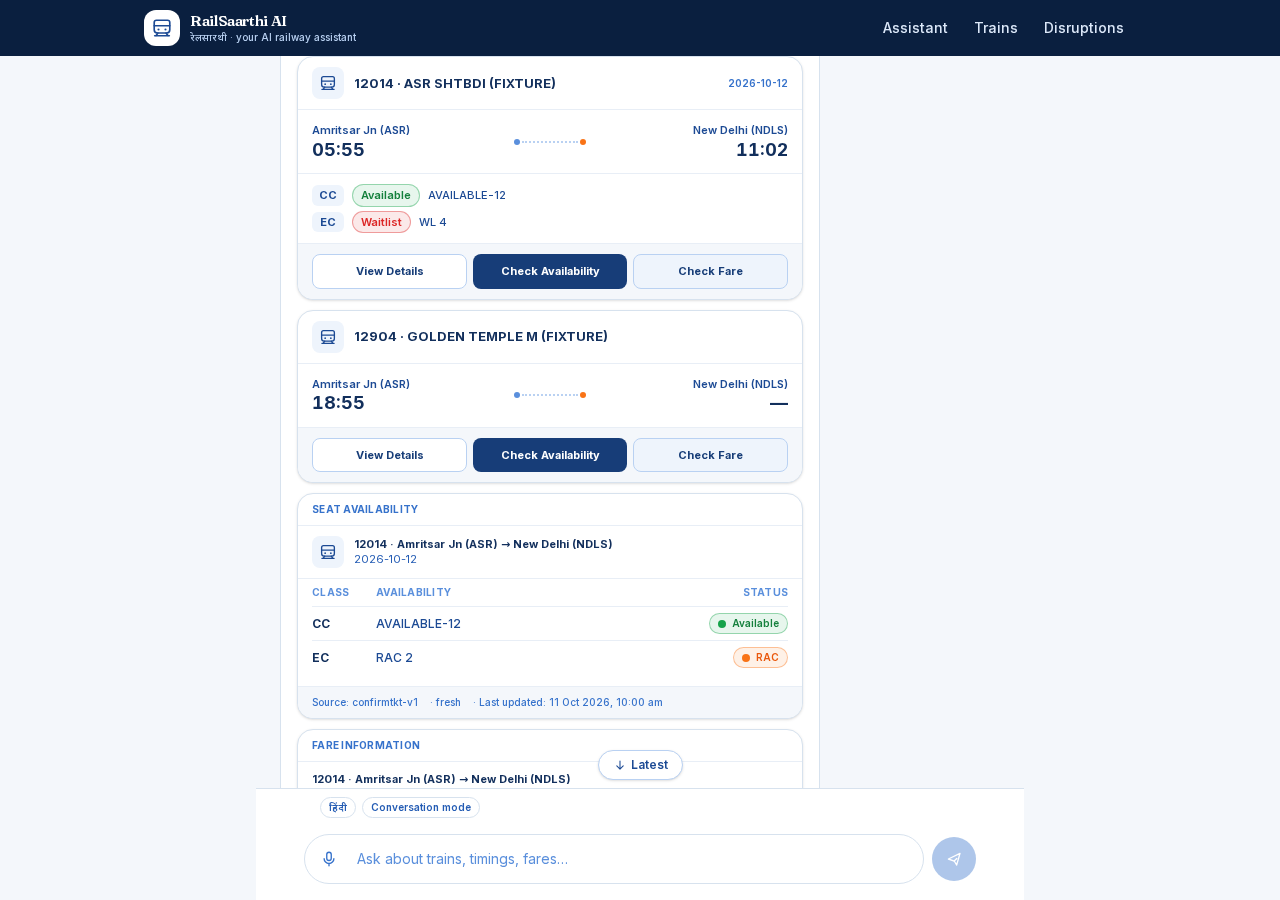
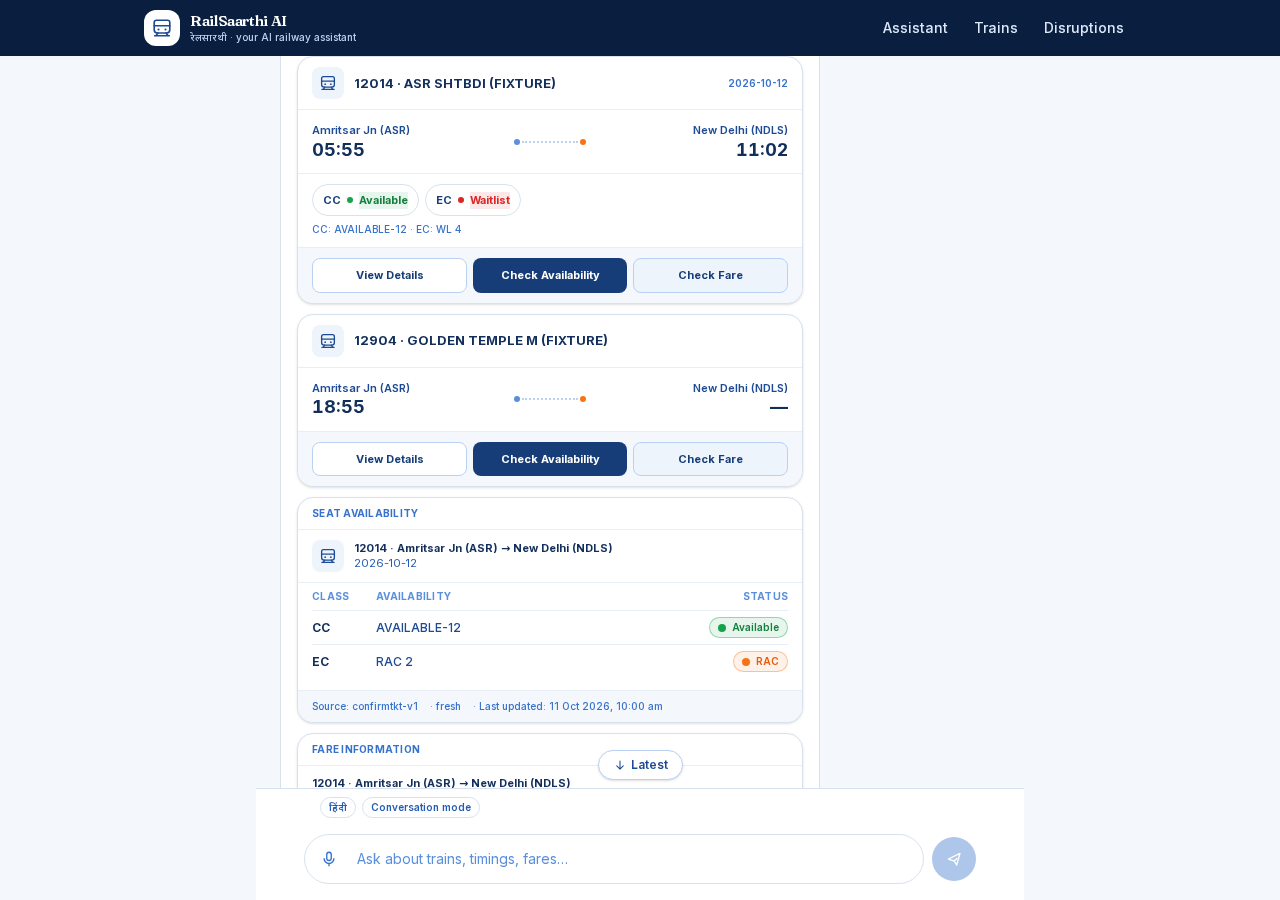
Premium chat UX: interactive class chips, availability chips, voice parity
PART 7 class chips: DEFAULT/SELECTED/LOADING/DISABLED states from the
authoritative result only (classes ∪ returned availability). Tap selects the
class for follow-ups and — when that class has no returned availability —
fires a REAL enquiry through the existing chat turn; loading tracks the real
turn (busy), never a fake timer. Selected = navy fill + aria-pressed + ✓.
PART 8 availability chips: [CC · Available] style with dot+label, exact
provider values kept attached as 'train+date+class: raw' line. Never a seat
count; unknown/error never styled as available.
PART 16 voice parity: speak/replay now use a concise grounded summary built
only from verified cards/blocks (e.g. '12014 mein CC Available, EC Waitlist'),
not the full card dump; replay never triggers a new enquiry.
Cards: one primary action (Check Availability, navy), secondary outline;
busy-prop disables chips/actions during turns (duplicate protection).
e2e: class-chip select+enquiry test; delayed-SSE loading-state test.
Playwright 56/56; tsc/lint/build PASS. Backend/orchestrator/providers
untouched. No push/deploy (not requested this milestone).

diff --git a/src/components/TrainResultCards.tsx b/src/components/TrainResultCards.tsx
@@ -18,45 +18,104 @@ export interface TrainCard {
   availability?: { classCode: string; status: string; asOf?: string | null }[];
 }
 
+function Dot({ kind }: { kind: ReturnType<typeof availabilityKind> }) {
+  const color =
+    kind === "available"
+      ? "bg-signal-500"
+      : kind === "rac"
+        ? "bg-saffron-500"
+        : kind === "unknown"
+          ? "bg-navy-300"
+          : "bg-alert-500";
+  return <span aria-hidden className={`h-1.5 w-1.5 shrink-0 rounded-full ${color}`} />;
+}
+
 /** Deterministic rendering of structured tool data (UI display only —
  *  no interpretation). Data always originates from provider results.
  *  Fields the provider did not return are labelled "—", never invented.
  *
  *  Button-behavior contract:
- *  - View Details      → real /trains/:id route; opens the details view, no new search.
- *  - Check Availability→ one follow-up through the EXISTING chat turn (LLM +
- *    ToolRuntime decide); visible loading state, duplicate-click protected.
- *  - Check Fare        → same contract, fare question for train + route.
+ *  - Class chips  → DEFAULT / SELECTED / LOADING / DISABLED. Tapping a class
+ *    selects it for follow-up enquiries AND (when that class has no returned
+ *    availability) fires a real availability enquiry through the existing
+ *    chat turn — loading tracks the actual turn (busy prop), never a fake
+ *    timer. Selection is honoured by Check Fare / Check Availability.
+ *  - View Details → real /trains/:id route; opens details, no new search,
+ *    no accidental selection; conversation is preserved.
+ *  - Check Availability (primary) / Check Fare (secondary) → one follow-up
+ *    through the EXISTING chat turn; visible loading + duplicate protection.
  *  No success is simulated — the real assistant answer (or error) follows. */
 export function TrainResultCards({
   cards,
   onAsk,
+  busy = false,
 }: {
   cards: TrainCard[];
   /** Sends a natural-language follow-up through the existing chat turn. */
   onAsk?: (question: string) => void;
+  /** True while a chat turn is in flight — drives chip/button loading states. */
+  busy?: boolean;
 }) {
   if (cards.length === 0) return null;
   return (
     <ul className="mt-3 space-y-2.5" data-testid="train-cards">
       {cards.map((c) => (
-        <TrainCardView key={`${c.trainNumber}-${c.departure}`} c={c} onAsk={onAsk} />
+        <TrainCardView key={`${c.trainNumber}-${c.departure}`} c={c} onAsk={onAsk} busy={busy} />
       ))}
     </ul>
   );
 }
 
-function TrainCardView({ c, onAsk }: { c: TrainCard; onAsk?: (q: string) => void }) {
-  const [pending, setPending] = useState<null | "availability" | "fare">(null);
+function TrainCardView({
+  c,
+  onAsk,
+  busy,
+}: {
+  c: TrainCard;
+  onAsk?: (q: string) => void;
+  busy: boolean;
+}) {
+  const [pendingActionRaw, setPendingAction] = useState<null | "availability" | "fare">(null);
+  const [selectedClass, setSelectedClass] = useState<string | null>(null);
+  const [pendingClassRaw, setPendingClass] = useState<string | null>(null);
+
+  // Loading states track the REAL turn: when the chat is no longer busy the
+  // in-flight marker clears (result or error will be visible in the thread).
+  const pendingAction = busy ? pendingActionRaw : null;
+  const pendingClass = busy ? pendingClassRaw : null;
+
   const fromCode = stationCode(c.from);
   const toCode = stationCode(c.to);
+  const fareClass = selectedClass ?? c.classes?.[0];
 
-  /** Duplicate-click protection: one in-flight ask per card. */
   const askOnce = (which: "availability" | "fare", question: string) => {
-    if (pending || !onAsk) return;
-    setPending(which);
+    if (busy || pendingAction || !onAsk) return; // duplicate-click protection
+    setPendingAction(which);
     onAsk(question);
   };
+
+  const availabilityQuestion = (cls?: string) =>
+    `${c.trainNumber} ${fromCode || c.from} se ${toCode || c.to} ${cls ? `${cls} ` : ""}seat availability${
+      c.journeyDate ? ` (${c.journeyDate})` : ""
+    }?`;
+
+  /** Class chip tap: select for follow-ups; if this class has no returned
+   *  availability yet, run a real enquiry through the existing turn. */
+  const onClassTap = (cls: string) => {
+    if (busy) return;
+    setSelectedClass(cls);
+    const has = c.availability?.some((a) => a.classCode === cls);
+    if (!has && onAsk) {
+      setPendingClass(cls);
+      onAsk(availabilityQuestion(cls));
+    }
+  };
+
+  // Chips come only from the authoritative result (classes ∪ returned availability).
+  const chipClasses = [
+    ...(c.classes ?? []),
+    ...(c.availability ?? []).map((a) => a.classCode).filter((x) => !(c.classes ?? []).includes(x)),
+  ];
 
   return (
     <li className="overflow-hidden rounded-2xl border border-cream-300 bg-white shadow-sm">
@@ -98,35 +157,64 @@ function TrainCardView({ c, onAsk }: { c: TrainCard; onAsk?: (q: string) => void
         </div>
       </div>
 
-      {/* Class / availability details */}
-      {c.availability && c.availability.length > 0 ? (
-        <ul className="space-y-1 border-t border-cream-200 px-3.5 py-2.5" data-testid="card-classes">
-          {c.availability.map((a) => {
-            const kind = availabilityKind(a.status);
-            return (
-              <li key={a.classCode} className="flex items-center gap-2 text-[11px]">
-                <span className="w-8 shrink-0 rounded-md bg-navy-50 px-1.5 py-0.5 text-center font-bold text-navy-700">
-                  {a.classCode}
-                </span>
-                <span className={`rounded-full border px-2 py-0.5 font-semibold ${KIND_PILL[kind]}`}>
-                  {KIND_LABEL[kind]}
-                </span>
-                <span className="min-w-0 truncate font-medium text-navy-700">{a.status}</span>
-              </li>
-            );
-          })}
-        </ul>
-      ) : c.classes && c.classes.length > 0 ? (
-        <div className="flex flex-wrap gap-1 border-t border-cream-200 px-3.5 py-2.5" data-testid="card-classes">
-          {c.classes.map((cls) => (
-            <span key={cls} className="rounded-md bg-navy-50 px-2 py-0.5 text-[10px] font-semibold text-navy-700">
-              {cls}
-            </span>
-          ))}
+      {/* Class chips (interactive) + availability association */}
+      {chipClasses.length > 0 && (
+        <div className="border-t border-cream-200 px-3.5 py-2.5">
+          <div
+            role="group"
+            aria-label={`Travel classes for train ${c.trainNumber}`}
+            className="flex flex-wrap gap-1.5"
+            data-testid="card-classes"
+          >
+            {chipClasses.map((cls) => {
+              const av = c.availability?.find((a) => a.classCode === cls);
+              const kind = av ? availabilityKind(av.status) : null;
+              const isSelected = selectedClass === cls;
+              const isLoading = pendingClass === cls && busy;
+              return (
+                <button
+                  key={cls}
+                  type="button"
+                  data-testid={`class-chip-${cls}`}
+                  aria-pressed={isSelected}
+                  aria-label={
+                    kind
+                      ? `Class ${cls}, ${KIND_LABEL[kind]}${isSelected ? ", selected" : ""}`
+                      : `Class ${cls}${isSelected ? ", selected" : ""}`
+                  }
+                  disabled={busy}
+                  onClick={() => onClassTap(cls)}
+                  className={`flex min-h-8 items-center gap-1.5 rounded-full border px-2.5 py-1 text-[11px] font-bold transition disabled:opacity-50 ${
+                    isSelected
+                      ? "border-navy-800 bg-navy-800 text-white"
+                      : "border-cream-300 bg-white text-navy-800 hover:border-navy-400"
+                  }`}
+                >
+                  {cls}
+                  {isLoading ? (
+                    <span aria-hidden className="animate-pulse text-[10px] font-semibold">…</span>
+                  ) : kind ? (
+                    <>
+                      <Dot kind={kind} />
+                      <span className={isSelected ? "text-white" : KIND_PILL[kind]}>{KIND_LABEL[kind]}</span>
+                    </>
+                  ) : isSelected ? (
+                    <span aria-hidden>✓</span>
+                  ) : null}
+                </button>
+              );
+            })}
+          </div>
+          {/* Keep the exact provider values attached to train+date+class */}
+          {c.availability && c.availability.length > 0 && (
+            <p className="mt-1.5 text-[10px] font-medium text-navy-500">
+              {c.availability.map((a) => `${a.classCode}: ${a.status}`).join(" · ")}
+            </p>
+          )}
         </div>
-      ) : null}
+      )}
 
-      {/* Actions — view/ask only; booking stays disabled */}
+      {/* Actions — one primary, rest secondary; booking stays disabled */}
       <div className="flex flex-wrap gap-1.5 border-t border-cream-200 bg-cream-100 px-3.5 py-2.5">
         <Link
           href={`/trains/${c.trainNumber}`}
@@ -138,36 +226,29 @@ function TrainCardView({ c, onAsk }: { c: TrainCard; onAsk?: (q: string) => void
           <>
             <button
               type="button"
-              data-testid={pending === "availability" ? "card-availability-loading" : undefined}
-              disabled={pending !== null}
-              aria-busy={pending === "availability"}
-              onClick={() =>
-                askOnce(
-                  "availability",
-                  `${c.trainNumber} ${fromCode || c.from} se ${toCode || c.to} seat availability${
-                    c.journeyDate ? ` (${c.journeyDate})` : ""
-                  }?`,
-                )
-              }
+              data-testid={pendingAction === "availability" ? "card-availability-loading" : undefined}
+              disabled={busy || pendingAction !== null}
+              aria-busy={pendingAction === "availability"}
+              onClick={() => askOnce("availability", availabilityQuestion(selectedClass ?? undefined))}
               className="min-w-[92px] flex-1 rounded-lg bg-navy-800 px-3 py-2 text-[11px] font-bold text-white transition hover:bg-navy-700 disabled:opacity-60"
             >
-              {pending === "availability" ? "Checking availability…" : "Check Availability"}
+              {pendingAction === "availability" ? "Checking availability…" : "Check Availability"}
             </button>
             <button
               type="button"
-              disabled={pending !== null}
-              aria-busy={pending === "fare"}
+              disabled={busy || pendingAction !== null}
+              aria-busy={pendingAction === "fare"}
               onClick={() =>
                 askOnce(
                   "fare",
                   `${c.trainNumber} ${fromCode || c.from} se ${toCode || c.to} ${
-                    c.classes?.[0] ? `${c.classes[0]} ` : ""
+                    fareClass ? `${fareClass} ` : ""
                   }fare kitna hai${c.journeyDate ? ` (${c.journeyDate})` : ""}?`,
                 )
               }
               className="min-w-[92px] flex-1 rounded-lg border border-navy-200 bg-navy-50 px-3 py-2 text-[11px] font-bold text-navy-800 transition hover:border-navy-400 disabled:opacity-60"
             >
-              {pending === "fare" ? "Checking fare…" : "Check Fare"}
+              {pendingAction === "fare" ? "Checking fare…" : "Check Fare"}
             </button>
           </>
         )}

diff --git a/src/components/ChatClient.tsx b/src/components/ChatClient.tsx
@@ -23,6 +23,7 @@ import {
   StopIcon,
   WarnIcon,
 } from "./icons";
+import { availabilityKind, KIND_LABEL } from "./results/status";
 import Link from "next/link";
 import { useVoiceInput } from "./voice/useVoiceInput";
 import { useSpeak } from "./voice/useSpeak";
@@ -83,6 +84,39 @@ function chipStyle(chip: ToolChip): string {
     default:
       return "border-alert-500/30 bg-alert-500/10 text-alert-500";
   }
+}
+
+/** Concise spoken summary built ONLY from verified structured data in the
+ *  message (cards/blocks). Never invents availability, fare or status. */
+function speechSummary(m: ChatMsg): string {
+  const bits: string[] = [];
+  if (m.text) bits.push(m.text);
+  for (const c of m.cards ?? []) {
+    const av = (c.availability ?? [])
+      .map((a) => `${a.classCode} ${KIND_LABEL[availabilityKind(a.status)]}`)
+      .join(", ");
+    bits.push(`${c.trainNumber} mein ${av || "abhi availability verify nahi hui"}.`);
+  }
+  for (const b of m.blocks ?? []) {
+    if (b.kind === "availability") {
+      bits.push(
+        `${b.data.trainNumber}: ` +
+          b.data.classes.map((x) => `${x.classCode} ${KIND_LABEL[availabilityKind(x.status)]}`).join(", ") +
+          ".",
+      );
+    } else if (b.kind === "fare") {
+      bits.push(`${b.data.trainNumber} ${b.data.classCode} fare ${b.data.totalFare} rupees hai.`);
+    } else if (b.kind === "live") {
+      bits.push(
+        b.data.running === null
+          ? `${b.data.trainNumber} ki live position verify nahi hui.`
+          : `${b.data.trainNumber} ${
+              b.data.running ? "running hai" : "running nahi hai"
+            }, last report ${b.data.lastStation?.name ?? "unknown"}.`,
+      );
+    }
+  }
+  return bits.join(" ").slice(0, 1200);
 }
 
 function ToolChipView({ chip }: { chip: ToolChip }) {
@@ -186,7 +220,7 @@ export function ChatClient({ initialMessage }: { initialMessage?: string }) {
     const last = [...messages].reverse().find((m) => m.role === "assistant" && m.text);
     if (last && last.id !== lastAutoSpokenRef.current) {
       lastAutoSpokenRef.current = last.id;
-      speak.speak(last.id, last.text!);
+      speak.speak(last.id, speechSummary(last));
     }
   }, [conversationMode, busy, messages, speak]);
 
@@ -545,7 +579,7 @@ export function ChatClient({ initialMessage }: { initialMessage?: string }) {
                       <div className="rounded-2xl rounded-bl-md border border-cream-300 bg-white p-4">
                         <p className="text-[15px] leading-relaxed whitespace-pre-line text-navy-900">{m.text}</p>
                         {m.cards && m.cards.length > 0 && (
-                          <TrainResultCards cards={m.cards} onAsk={(q) => void send(q)} />
+                          <TrainResultCards cards={m.cards} onAsk={(q) => void send(q)} busy={busy} />
                         )}
                         {m.blocks && m.blocks.length > 0 && <ResultBlocks blocks={m.blocks} />}
                         <div className="mt-3 flex items-center justify-between gap-2 border-t border-cream-200 pt-2.5">
@@ -559,7 +593,7 @@ export function ChatClient({ initialMessage }: { initialMessage?: string }) {
                               data-testid="speak-button"
                               aria-label={speak.speakingId === m.id ? "Stop speaking" : "Speak response"}
                               onClick={() =>
-                                speak.speakingId === m.id ? speak.stop() : speak.speak(m.id, m.text ?? "")
+                                speak.speakingId === m.id ? speak.stop() : speak.speak(m.id, speechSummary(m))
                               }
                               className="flex items-center gap-1.5 rounded-full border border-navy-200 bg-white px-2.5 py-1 text-[11px] font-semibold text-navy-700 transition hover:border-navy-400"
                             >

diff --git a/tests/e2e/ui-interactions.spec.ts b/tests/e2e/ui-interactions.spec.ts
@@ -30,9 +30,15 @@ const sseWithCards = [
 test("card actions: Check Availability shows loading + blocks duplicates, Check Fare exists", async ({
   page,
 }) => {
-  await page.route("**/api/assistant", (r) =>
-    r.fulfill({ status: 200, headers: { "content-type": "text/event-stream" }, body: sseWithCards }),
-  );
+  let first = true;
+  await page.route("**/api/assistant", async (r) => {
+    if (!first) {
+      // the follow-up turn takes its time so loading states are observable
+      await new Promise((res) => setTimeout(res, 1500));
+    }
+    first = false;
+    await r.fulfill({ status: 200, headers: { "content-type": "text/event-stream" }, body: sseWithCards });
+  });
   await page.goto("/chat");
   await page.getByLabel("Message").fill("fixture trains");
   await page.getByRole("button", { name: "Send" }).click();
@@ -87,4 +93,30 @@ test("train details exposes accessible tabs with panel wiring", async ({ page })
   await expect(panel).toBeVisible();
   await page.getByRole("tab", { name: "Route" }).click();
   await expect(page.getByRole("tab", { name: "Route" })).toHaveAttribute("aria-selected", "true");
+});
+
+test("class chips: tap selects, fires real availability enquiry for that class, keeps association", async ({
+  page,
+}) => {
+  await page.route("**/api/assistant", (r) =>
+    r.fulfill({ status: 200, headers: { "content-type": "text/event-stream" }, body: sseWithCards }),
+  );
+  await page.goto("/chat");
+  await page.getByLabel("Message").fill("fixture trains");
+  await page.getByRole("button", { name: "Send" }).click();
+  const card = page.getByTestId("train-cards").first();
+  await card.waitFor({ timeout: 15_000 });
+
+  const cc = card.getByTestId("class-chip-CC");
+  await expect(cc).toHaveAttribute("aria-pressed", "false");
+  await cc.click();
+
+  // selected state + a real follow-up turn for THIS class
+  await expect(cc).toHaveAttribute("aria-pressed", "true");
+  await expect(page.getByTestId("chat-message-user")).toHaveCount(2, { timeout: 10_000 });
+  await expect(page.getByTestId("chat-message-user").nth(1)).toContainText("CC seat availability");
+
+  // chips with provider availability show dot+label text (fixture 1st card has none,
+  // but availability chips appear in the result block tables — verify card raw line absent)
+  await expect(card.getByText("CC:", { exact: false })).toHaveCount(0);
 });
